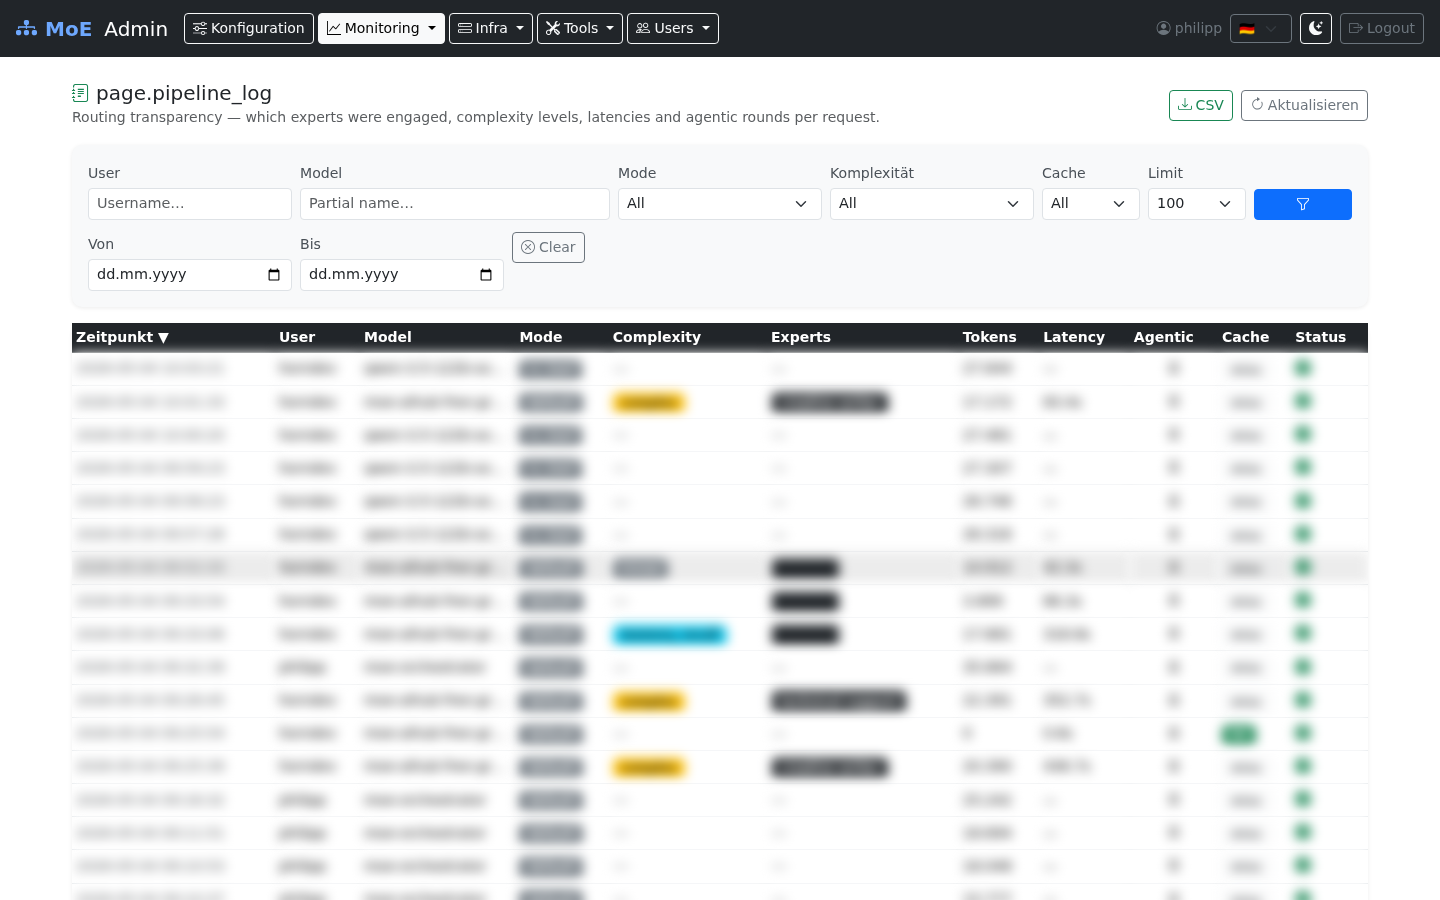
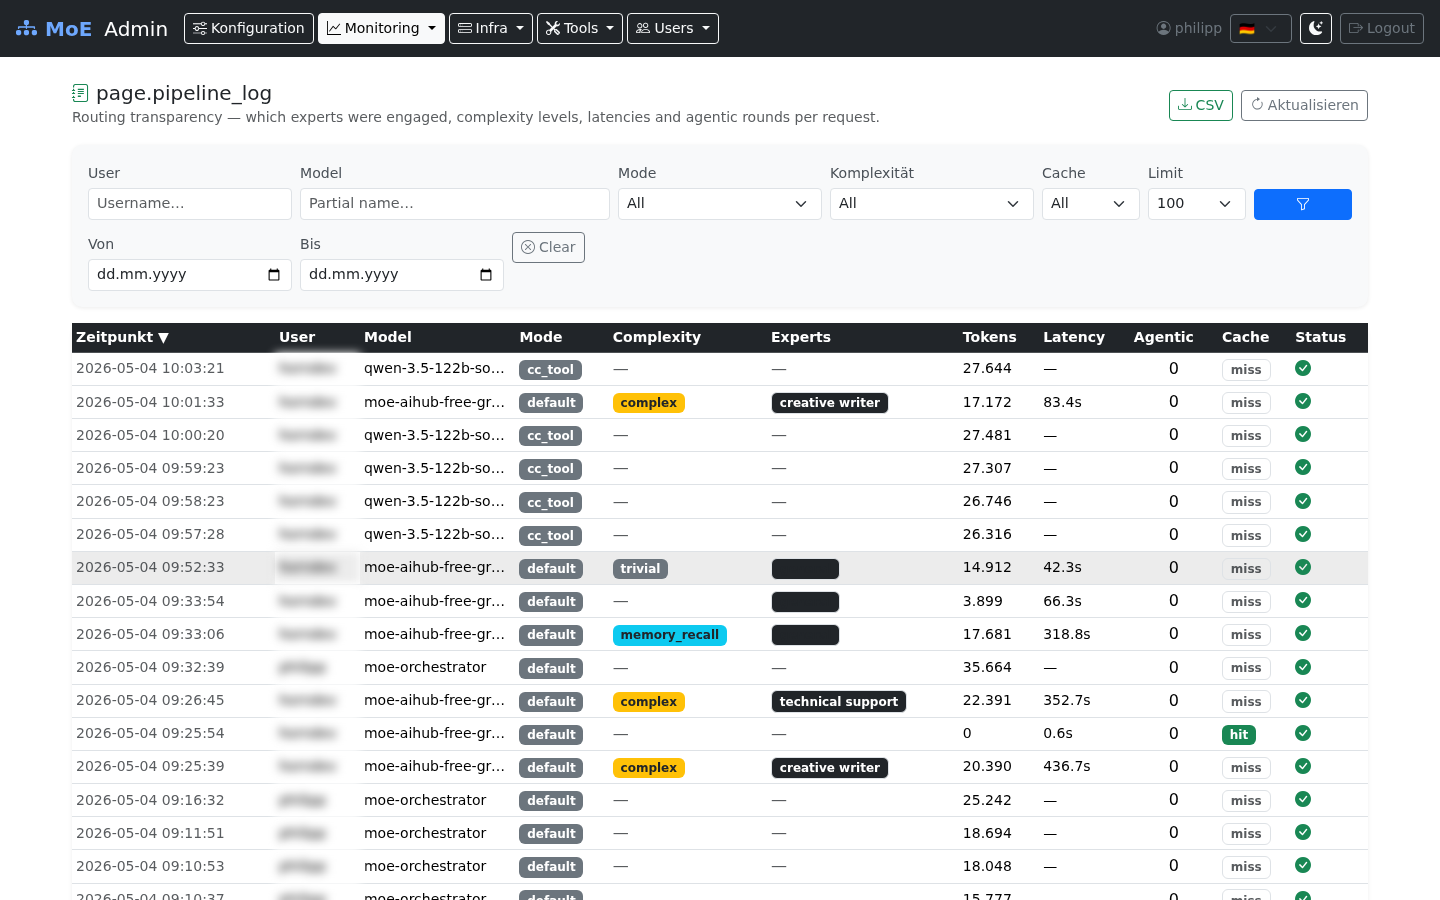
docs: screenshot corrections + changelog 2026-05-04
Screenshots:
- admin_dashboard.png: blur URL column (was showing /v1 endpoints)
- admin_pipeline_log.png: blur only user column (rest now visible)
- admin_expert_templates.png/jpg: 1440x2000, moe-m10-gremium-deep expanded
- dozzle.png: langgraph-orchestrator live logs (logged-in state)
- dozzle_home.png: MoE container group view

Changelog:
- Add 2026-05-04 entry: Responses API, Pipeline Log, Chess MCP,
  optional Neo4j/Authentik, bug fixes

Changed region(s): [[0.25, 0.3733, 0.9375, 1.0], [0.0312, 0.3733, 0.1875, 1.0]]

diff --git a/docs/changelog.md b/docs/changelog.md
@@ -8,6 +8,49 @@ Format: [Keep a Changelog](https://keepachangelog.com/en/1.0.0/) — semantic ve
 
 ---
 
+## 2026-05-04 — OpenAI Responses API, Pipeline Transparency Log, Chess MCP, Optional Neo4j/Authentik
+
+> `impact: minor` · `breaking: no` · `domain: api, admin-ui, mcp, deployment, installer`
+
+### Added
+
+- **OpenAI Responses API (`/v1/responses`)**: Full Codex CLI compatibility (`wire_api = "responses"`).
+  Supports streaming (keepalive SSE every 15 s), non-streaming, `<think>` block filtering,
+  content-block arrays (`input_text`, `input_file`), and template routing via model name.
+- **Pipeline Transparency Log**: New `/v1/admin/pipeline-log` API endpoint + Admin UI page at
+  `/pipeline-log`. Records per-request routing metadata: complexity level, expert domains,
+  latency, agentic rounds, cache hit. Filterable by user (ILIKE), model (ILIKE), mode, date
+  range, complexity; sortable by all columns server-side. CSV export. `usage_log` schema
+  auto-migrated with 5 new columns.
+- **Chess MCP tools**: `chess_analyze_position` (Lichess cloud eval API, free, 342 M positions)
+  and `chess_legal_moves` (python-chess, FEN parsing). Used by the GAIA pipeline for chess tasks.
+- **Optional Neo4j** (`profiles: [neo4j]`): `install.sh` now asks "Install Neo4j GraphRAG? [Y/n]".
+  Saves ~1.5 GB RAM on lightweight VMs. Setting `NEO4J_URI=` skips `_init_graph_rag()` instantly.
+- **Optional Authentik server deployment** (`profiles: [authentik]`): `install.sh` deploys all
+  four Authentik containers on request, generates secrets, writes a blueprint for automatic
+  OIDC provider + application setup — no manual Authentik UI steps needed after install.
+- **GAIA benchmark improvements**: Tool-leak filter extended, counting prompt for enumeration
+  tasks, chess FEN auto-detection.
+
+### Fixed
+
+- **`/v1/responses` 404**: Duplicate `if __name__ == "__main__":` block caused uvicorn to start
+  before Responses API routes were registered.
+- **Pipeline Log 401/403**: Admin UI proxy sent invalid empty `Bearer ` header; fixed by passing
+  `SYSTEM_API_KEY` for internal admin calls.
+- **Codex template routing**: `_find_tmpl` now matches by `name` OR UUID — `/v1/models` exposes
+  template names, DB stores UUIDs, causing the wrong template to be selected silently.
+- **`/v1/models`**: Added `owned_by` and `created` fields required by OpenAI spec (suppresses
+  Codex CLI "Model metadata not found" for unknown model IDs).
+
+| Metadata | Value |
+|---|---|
+| `impact` | minor |
+| `breaking` | no |
+| `domain` | API, Admin UI, MCP Server, Deployment, Installer |
+
+---
+
 ## 2026-04-27 — Tier-2 Semantic Memory (1M-Token Context Window) & MRCR-lite Benchmark
 
 > `impact: minor` · `breaking: no` · `domain: orchestrator, memory, benchmarks`
